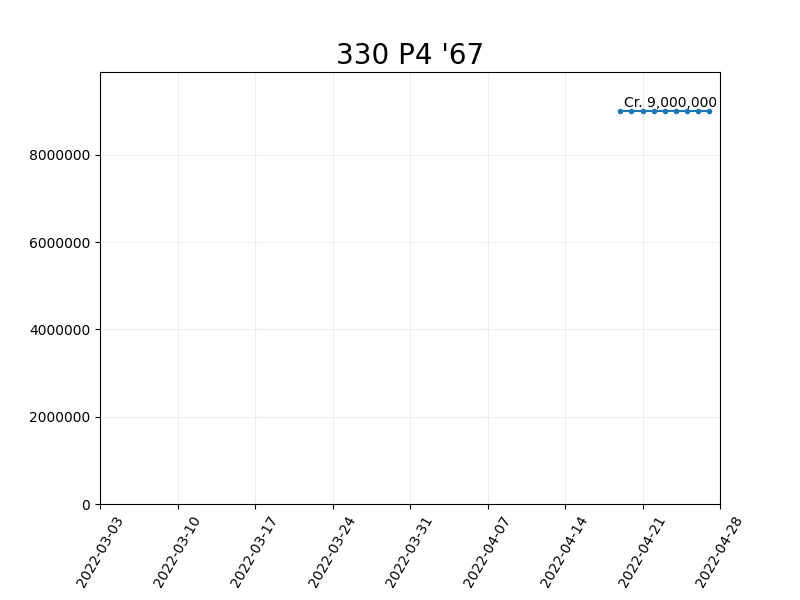
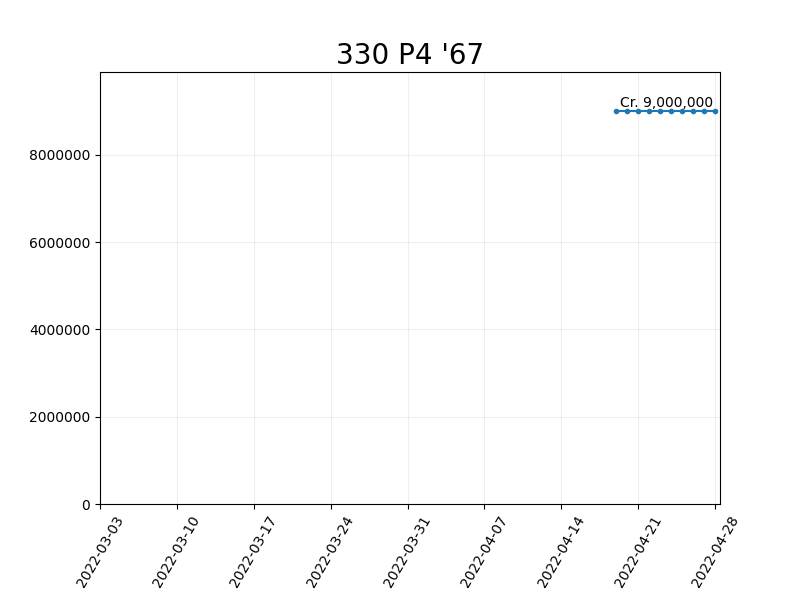
Deploying to gh-pages from @ ddm999/gt7info@eb5c678b50c7a4169ef8bfb1df191fd85df66d41 🚀

diff --git a/index.html b/index.html
@@ -149,12 +149,12 @@
         <span id="name"><a href="cars/prices_3454.png" target="_blank">3.0 CSL '71</a></span>
         <span id="credits"><span id="cr">Cr.</span> 138,400</span>
         <span id="limited">Limited Stock</span><span id="days-remaining">1 More Day Remaining</span>
-      </p><p class="car carsold">
+      </p><p class="car carlimited">
         <img id="flag" src="https://flagcdn.com/h24/it.png"/>
         <span id="manufacturer">FERRARI</span>
         <span id="name"><a href="cars/prices_3443.png" target="_blank">308 GTB '75</a></span>
         <span id="credits"><span id="cr">Cr.</span> 169,000</span>
-        <span id="soldout">SOLD OUT</span>
+        <span id="limited">Limited Stock</span><span id="days-remaining">Last Day Available</span>
         <span id="reward-text">REWARD<br>CAR</span>
         <img id="reward-icon" src="img/open-book.svg" width="24" title="Reward from Menu Book 38"/>
       </p><p class="car carsold">
@@ -365,12 +365,14 @@
         <span id="name"><a href="cars/prices_1484.png" target="_blank">Countach LP400 '74</a></span>
         <span id="credits"><span id="cr">Cr.</span> 1,100,000</span>
         <span id="days-estimate">Estimate: 2 to 7 More Days Remaining</span>
-      </p><p class="lcar carsold">
+      </p><p class="lcar carlimited">
         <img id="icon" src="img/legend-hagerty-icon.svg"/>
-        <span id="manufacturer">Mazda</span>
-        <span id="name"><a href="cars/prices_296.png" target="_blank">787B '91</a></span>
-        <span id="credits"><span id="cr">Cr.</span> 1,875,000</span>
-        <span id="dimmer"></span><span id="soldout">SOLD OUT</span>
+        <span id="manufacturer">Ferrari</span>
+        <span id="name"><a href="cars/prices_1551.png" target="_blank">330 P4 '67</a></span>
+        <span id="credits"><span id="cr">Cr.</span> 9,000,000</span>
+        <span id="grind">Optimal grinding time to earn: 4 hours</span>
+        <span id="play">Normal gameplay time to earn: 23 hours 💀</span>
+        <span id="limited">Limited Stock</span><span id="days-remaining">1 More Day Remaining</span>
       </p><p class="lcar carnew">
         <img id="icon" src="img/legend-hagerty-icon.svg"/>
         <span id="manufacturer">Chevrolet</span>
